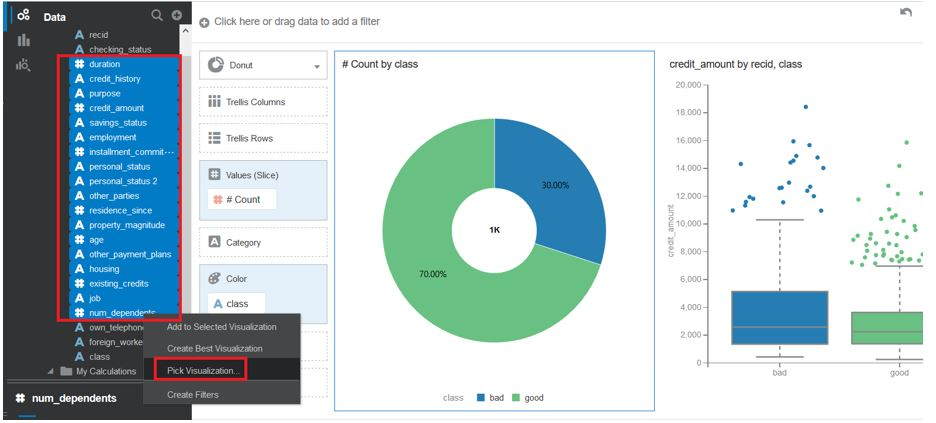
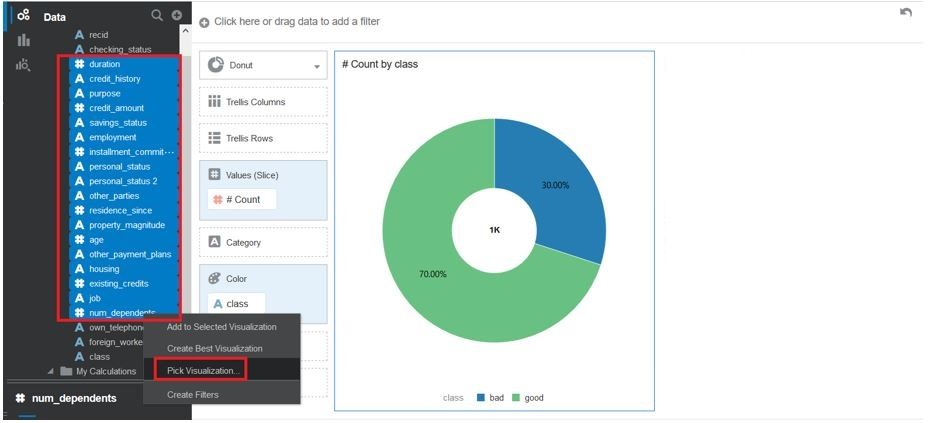
Removed boxplot lab 300

diff --git a/DataScience/lab300/lab.md b/DataScience/lab300/lab.md
@@ -78,12 +78,14 @@ First of all, let's imagine you want to know how many credit applications have b
 - You see that 70% out of 1000 credit applications were good and 30% were bad for the target called ‘class’
 ![](./images/img16.jpg)
 
+<!--
 - Now let's say we have a NEW question. We'd like to know how the Credit Amount that's requested is related to to a Good or Bad credit scoring. Again, we can create a visualization to answer that question. This time, select the field "Recid", "Credit_amount" and "Class" and choose the "Boxplot" Visualization.
 ![](./images/img17.jpg)
 
 - Now, you see ‘Boxplot Visualization’. You can the bulk of applications in terms Credit_amount for class=good and class=bad
 It shows the bulk of credit_amounts for good and bad credit, the amount which are not in the bulk. My conclusion is that the range of credit_amount for bad credit is bigger than for good credit, although the average value seems the same.
 ![](./images/img19.jpg)
+-->
 
 - Remember the colinearity issue from the previous labs? Colinearity is the effect of multiple attributes that supply similar information. When we train our model, we should try to only supply attributes that provide unique pieces of information. To investigate this issue, we will create a correlation diagram between the input features. Do this by selecting all the fields from "duration" until "num_dependants". Choose "Pick Visualization" and select "Correlation Matrix".
 ![](./images/img20.jpg)

diff --git a/DataScience/prereq3/lab.md b/DataScience/prereq3/lab.md
@@ -1,8 +1,9 @@
 ![](../commonimages/workshop_logo.png)
 
 Below you find the instructions for installing Oracle Analytics Desktop. Note that the labs can be executed using either Oracle Analytics Cloud or Oracle Analytics Desktop. So if you already have an OAC instance, feel free to use that instead.
+Note that apart from the Oracle Analytics Desktop installation, you also have to **install the open source Machine Learning packages**.
 
-# Install Oracle Analytics Desktop
+# Install Oracle Analytics Desktop **and Machine Learning packages**
 
 1. Download DVD by clicking [here](https://www.oracle.com/middleware/technologies/oracle-data-visualization-desktop.html#) and follow the instructions. 
 2. Install DVD locally on your computer. 
